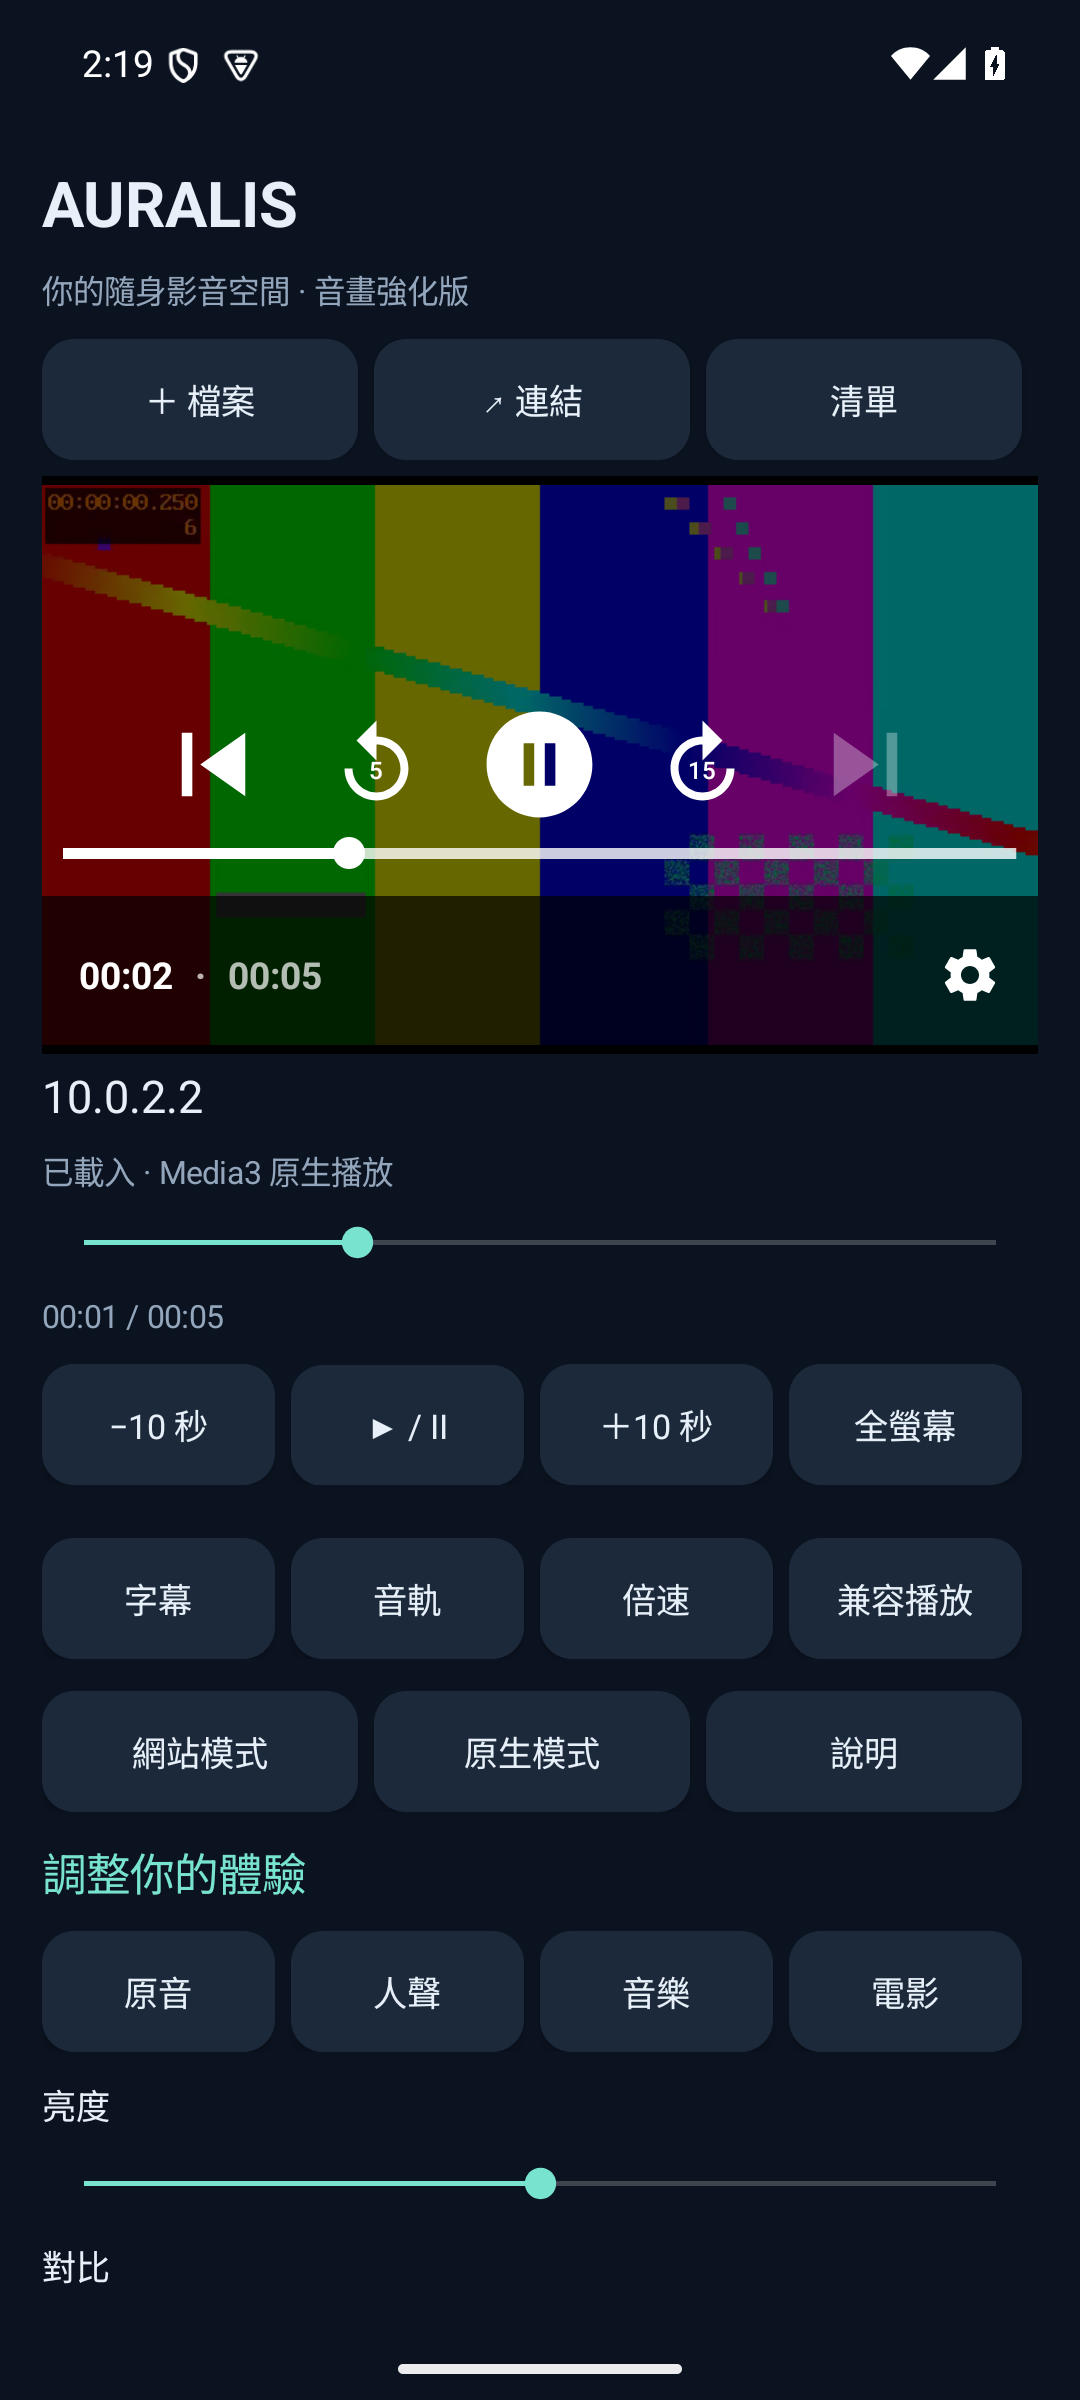
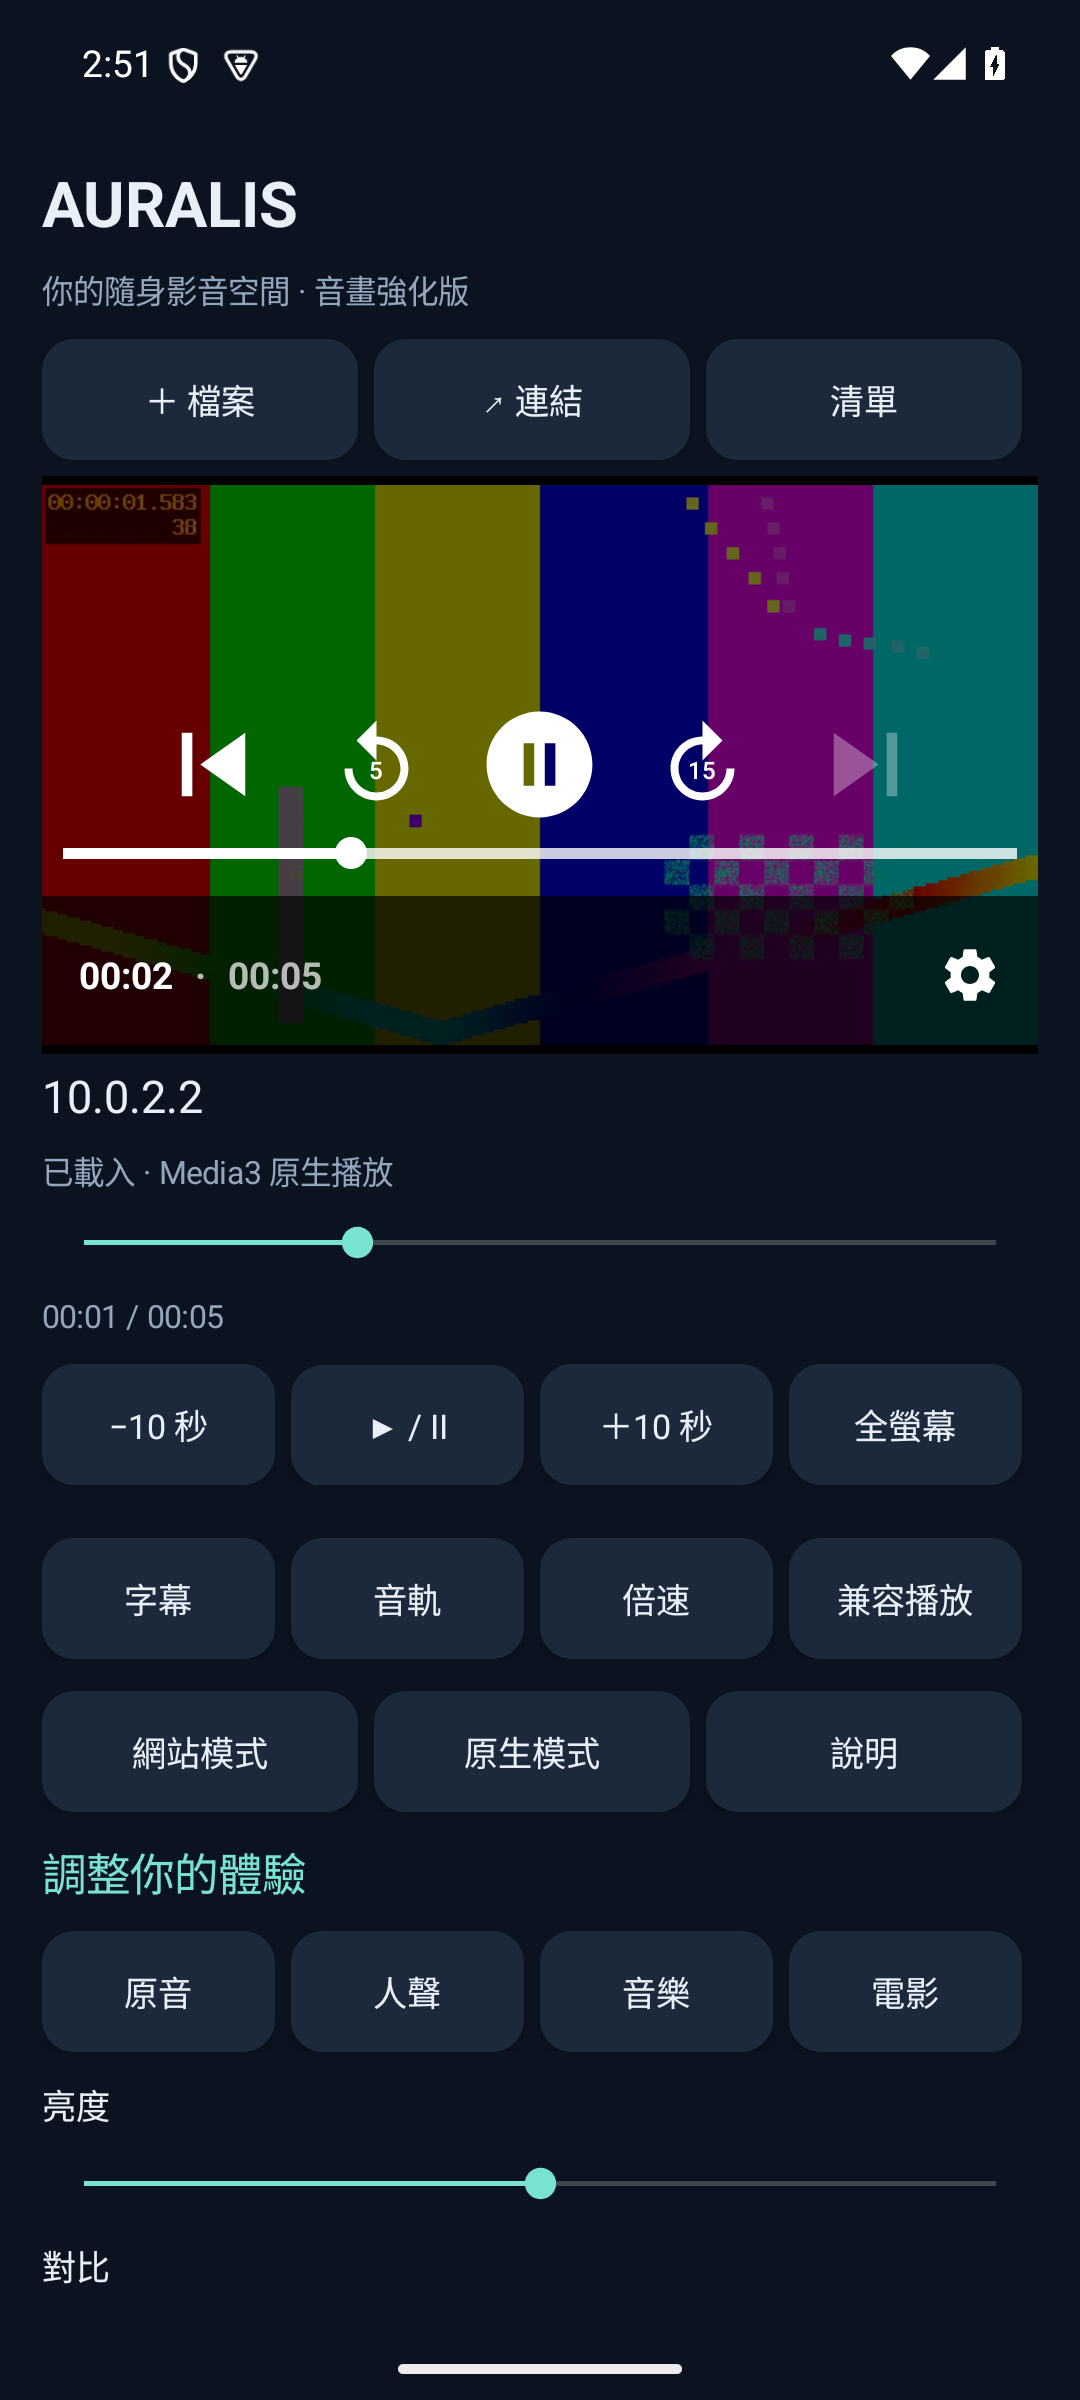
Refresh playback evidence and CI verification record

diff --git a/docs/verification.md b/docs/verification.md
@@ -2,7 +2,8 @@
 
 - Rust shared policy: 3 tests passed on Windows. Android instrumentation also checks the C++ JNI / Rust results.
 - Android 15 / API 35 x86_64 emulator: Lite 2 tests passed, 1 Full-only test skipped; Full 3 tests passed.
-- HLS / H.264 playback: decoder `renderedOutputBufferCount` > 5 and playback position > 300 ms, then pause, exact seek and 1.25× playback checked. Full also exercises GPU brightness, contrast and saturation processing.
+- HLS / H.264 playback: decoder `renderedOutputBufferCount` > 5 and playback position > 300 ms, then pause, exact seek and 1.25× playback checked. Full also exercises GPU brightness, contrast and saturation processing. A further focused Full run verifies that an actual decoded frame timestamp reaches at least 1.5 seconds after seek/effects; 1 test passed. The screenshot is from that run.
+- GitHub Linux release build and lint passed on commit `4ecf6b1`; [run](https://github.com/sion-rgb/auralis-android/actions/runs/38416931396). This checks source builds, not physical-device playback.
 - Full VLC: a ProRes MOV stream advances the actual VLC clock beyond 300 ms. The test HTTP server supports byte ranges, as required by that stream.
 - `lintLiteRelease` / `lintFullRelease`: 0 errors; 22 / 24 warnings, including deprecated APIs and newer-version notices. Warnings are retained in local reports, not represented as clean lint.
 - Both release builds succeeded for ARM64, ARMv7, x86_64 and universal.
